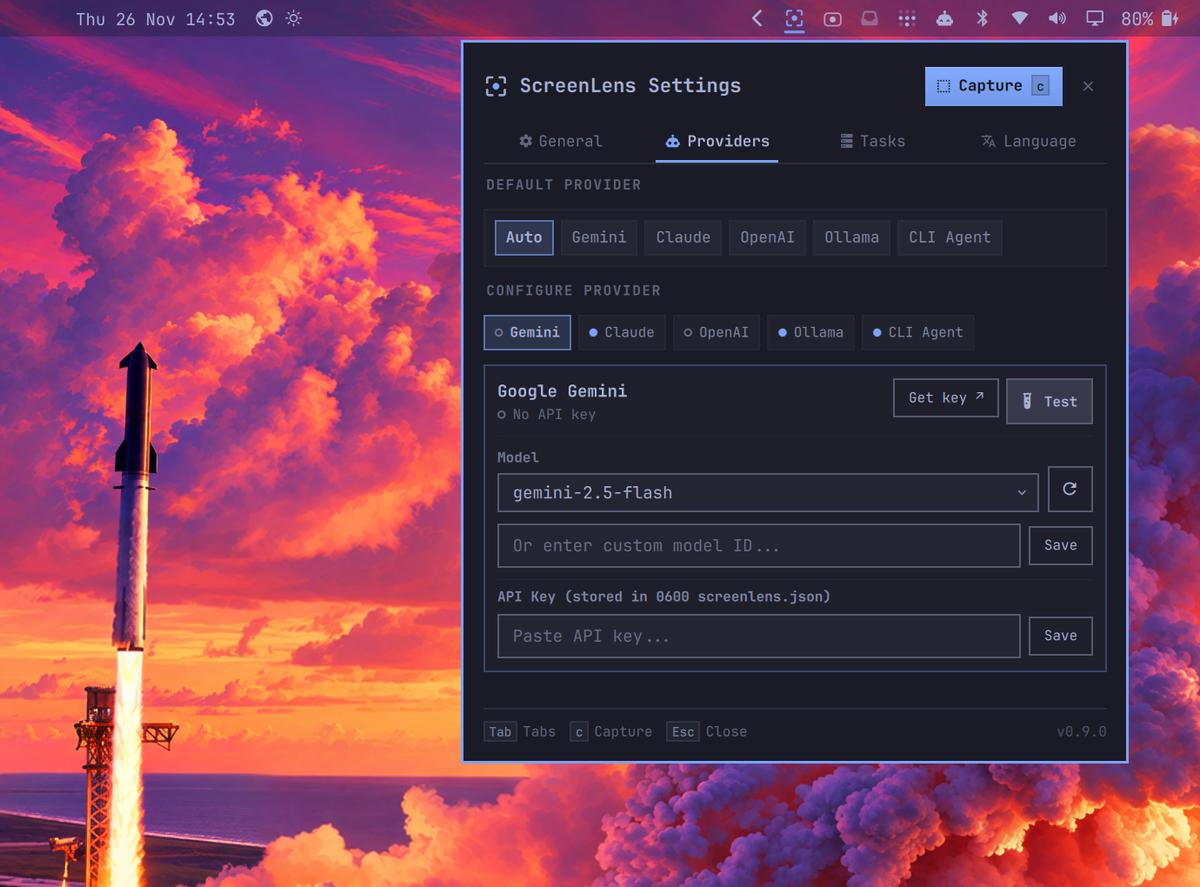
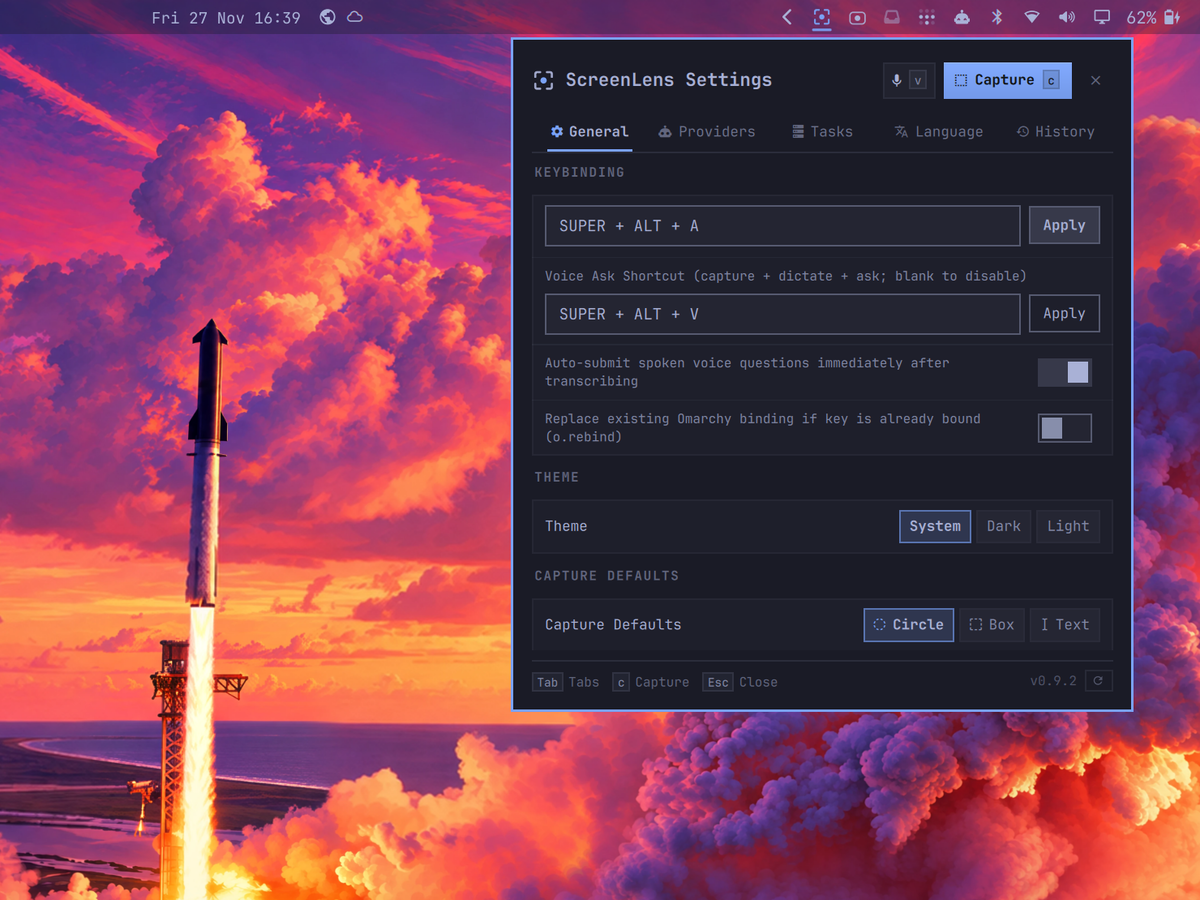
docs: refresh README screenshots with multi-region, table-to-CSV, and 5-tab Settings

diff --git a/README.md b/README.md
@@ -6,7 +6,7 @@ Summon ScreenLens over any window or workspace, circle or box one or more region
 
 > **Public Beta (`v0.9.2`):** ScreenLens is in active beta for early Omarchy testers. Bug reports and ideas are very welcome in [Issues](https://github.com/cgranier/screenlens/issues).
 
-![ScreenLens overlay chatting live over a browser window](docs/overlay-demo.png)
+![ScreenLens overlay comparing two pinned regions with live web grounding](docs/overlay-demo.png)
 
 ## Features
 
@@ -39,6 +39,10 @@ Summon ScreenLens over any window or workspace, circle or box one or more region
   - **History:** Search recent conversations, inspect thumbnails & full threads, copy answers, resume visual context, hand off to your coding agent, or delete/clear history.
 
 ## Screenshots
+
+### Context-Aware Table Extraction (Markdown + CSV)
+
+![ScreenLens auto-detecting a table and extracting Markdown + CSV](docs/table-extract-demo.png)
 
 ### Settings Panel
 
